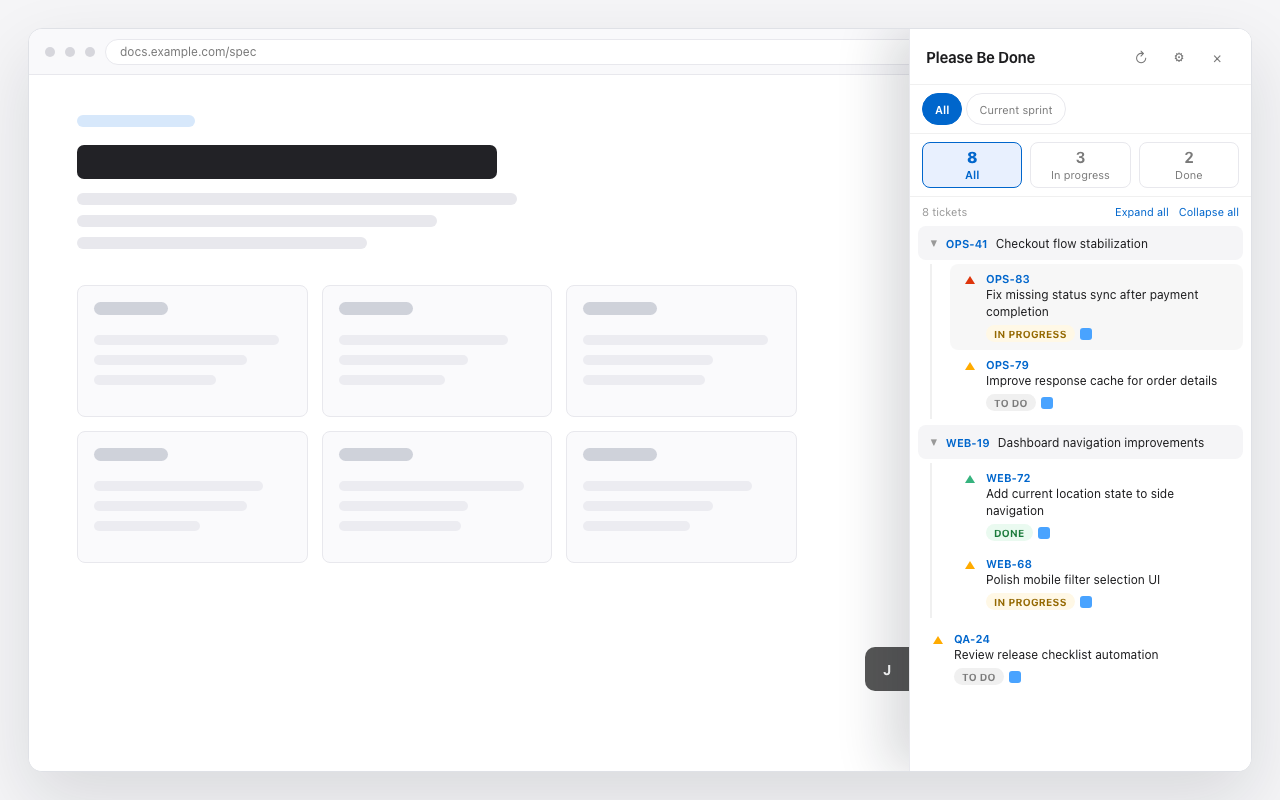
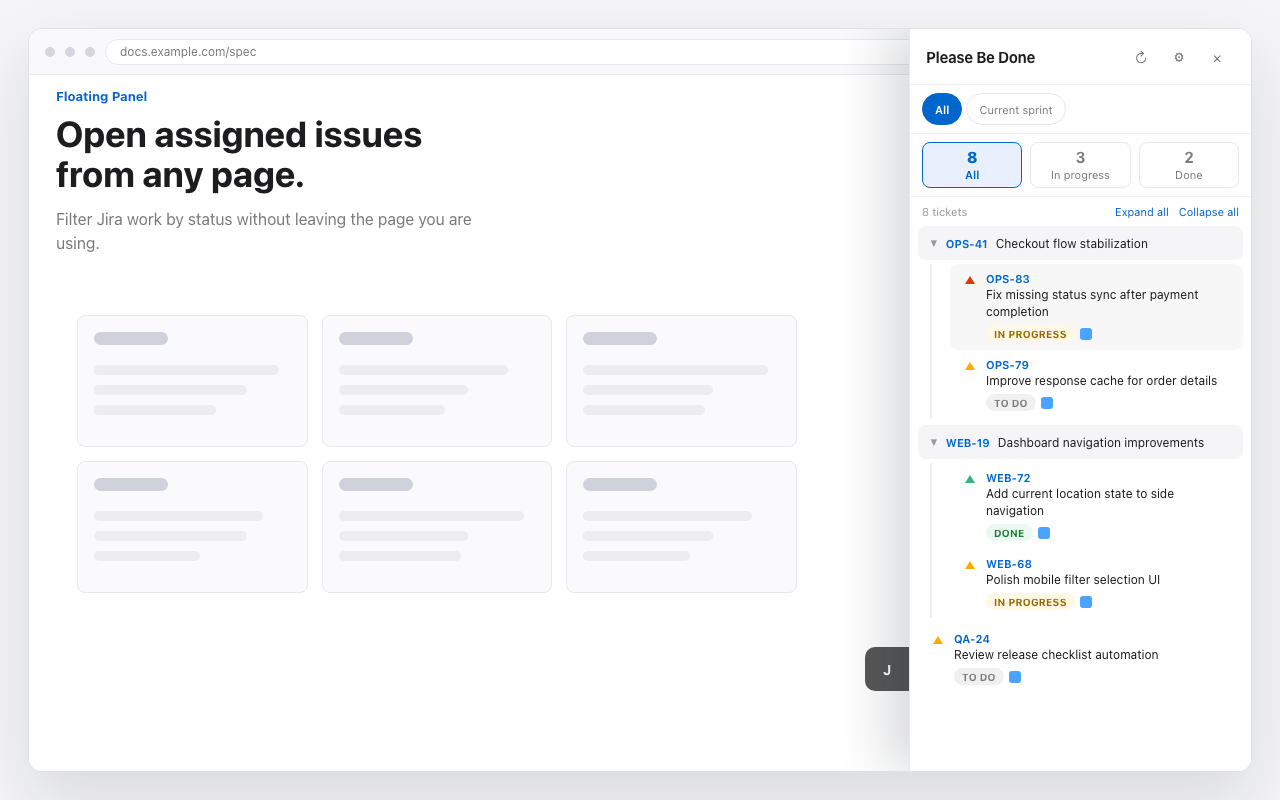
Improve Chrome Web Store discovery assets

diff --git a/store-assets/source.html b/store-assets/source.html
@@ -140,6 +140,20 @@
       padding-right: 390px;
     }
 
+    .webpage--store-copy {
+      padding-top: 240px;
+    }
+
+    .webpage--store-copy > .kicker,
+    .webpage--store-copy > .headline,
+    .webpage--store-copy > .copy-line {
+      display: none;
+    }
+
+    .webpage--store-copy .board {
+      margin-top: 0;
+    }
+
     .kicker {
       width: 118px;
       height: 12px;
@@ -744,6 +758,7 @@
       font-size: 13px;
       font-weight: 700;
       letter-spacing: 0;
+      z-index: 2;
     }
 
     .screen-title {
@@ -756,6 +771,11 @@
       font-weight: 720;
       letter-spacing: 0;
       color: var(--ink);
+      z-index: 2;
+    }
+
+    .screen-title--settings {
+      width: 660px;
     }
 
     .screen-note {
@@ -766,6 +786,7 @@
       color: var(--muted);
       font-size: 16px;
       line-height: 1.48;
+      z-index: 2;
     }
 
     .priority-high path { fill: #de350b; }
@@ -963,7 +984,7 @@
         <div class="brand">P</div>
         <div class="promo-copy">
           <div class="promo-title">Please<br />Be Done</div>
-          <div class="promo-subtitle">Jira tickets<br />at a glance</div>
+          <div class="promo-subtitle">Assigned Jira issues at a glance</div>
         </div>
         <div class="browser browser--promo">
           ${topbar('anywhere')}
@@ -991,8 +1012,8 @@
             <div class="marquee-logo">P</div>
             <div class="marquee-name">Please Be Done</div>
           </div>
-          <h1 class="marquee-title">See your work<br />before opening Jira.</h1>
-          <div class="marquee-subtitle">Track assigned issues, current sprint work, and status progress from the side panel or floating panel.</div>
+          <h1 class="marquee-title">Your assigned Jira issues, ready when you need them.</h1>
+          <div class="marquee-subtitle">Track current sprint work and status progress from the side panel or floating panel.</div>
         </div>
         <div class="browser browser--marquee">
           ${topbar('project.example.com')}
@@ -1006,11 +1027,11 @@
       root.className = 'asset asset--screenshot';
       root.innerHTML = `
         <div class="screen-label">Chrome Side Panel</div>
-        <div class="screen-title">Keep current work visible beside the browser</div>
+        <div class="screen-title">Current sprint or every assigned issue.</div>
         <div class="screen-note">Group assigned Jira issues by parent ticket and switch quickly between current sprint and all assigned work.</div>
         <div class="browser">
           ${topbar('project.example.com/roadmap')}
-          ${webPage()}
+          ${webPage('webpage--store-copy')}
           ${panel()}
         </div>
       `;
@@ -1019,9 +1040,12 @@
     function screenshotFloating() {
       root.className = 'asset asset--screenshot';
       root.innerHTML = `
+        <div class="screen-label">Floating Panel</div>
+        <div class="screen-title">Open assigned issues from any page.</div>
+        <div class="screen-note">Filter Jira work by status without leaving the page you are using.</div>
         <div class="browser">
           ${topbar('docs.example.com/spec')}
-          ${webPage('webpage--wide')}
+          ${webPage('webpage--wide webpage--store-copy')}
           <div class="toggle-tab">J</div>
           ${panel({ floating: true })}
         </div>
@@ -1032,11 +1056,11 @@
       root.className = 'asset asset--screenshot';
       root.innerHTML = `
         <div class="screen-label">Secure Setup</div>
-        <div class="screen-title">Connect directly with an Atlassian API token</div>
+        <div class="screen-title screen-title--settings">Connect directly to Jira Cloud with your API token.</div>
         <div class="screen-note">Domain, email, and API token are stored in Chrome storage, while Jira Cloud API requests are handled in the browser.</div>
         <div class="browser">
           ${topbar('chrome-extension://please-be-done/options.html')}
-          ${webPage('webpage--wide')}
+          ${webPage('webpage--wide webpage--store-copy')}
           ${panel({ floating: true, settings: true })}
         </div>
       `;

diff --git a/test/webstore-assets.test.js b/test/webstore-assets.test.js
@@ -1,0 +1,53 @@
+import assert from 'node:assert/strict';
+import { readFile } from 'node:fs/promises';
+import test from 'node:test';
+
+const generatorUrl = new URL('../scripts/generate-webstore-assets.mjs', import.meta.url);
+const sourceUrl = new URL('../store-assets/source.html', import.meta.url);
+
+const assets = [
+  ['promo', 'promo-small-440x280.png', 'Assigned Jira issues at a glance'],
+  ['marquee', 'promo-marquee-1400x560.png', 'Your assigned Jira issues, ready when you need them.'],
+  ['sidepanel', 'screenshot-sidepanel-1280x800.png', 'Current sprint or every assigned issue.'],
+  ['floating', 'screenshot-floating-panel-1280x800.png', 'Open assigned issues from any page.'],
+  ['settings', 'screenshot-settings-1280x800.png', 'Connect directly to Jira Cloud with your API token.'],
+];
+
+test('web store asset generator renders the canonical source into five release assets', async () => {
+  const [generator, source] = await Promise.all([
+    readFile(generatorUrl, 'utf8'),
+    readFile(sourceUrl, 'utf8'),
+  ]);
+
+  assert.match(generator, /store-assets[^\n]+source\.html/);
+
+  for (const [renderer, output, message] of assets) {
+    assert.match(generator, new RegExp(`asset=${renderer}`));
+    assert.match(generator, new RegExp(output.replaceAll('.', '\\.')));
+    assert.ok(source.includes(message), `missing ${renderer} message: ${message}`);
+  }
+});
+
+test('web store asset generator stops Chrome after each screenshot is written', async () => {
+  const generator = await readFile(generatorUrl, 'utf8');
+
+  assert.match(generator, /spawn\(/);
+  assert.match(generator, /await waitForOutput\(/);
+  assert.match(generator, /if \(!child\.pid/);
+  assert.match(generator, /child\.kill\('SIGTERM'\)/);
+});
+
+test('store screenshots reserve a clear copy area above the placeholder board', async () => {
+  const source = await readFile(sourceUrl, 'utf8');
+
+  assert.match(source, /\.webpage--store-copy/);
+  assert.match(source, /webPage\('webpage--store-copy'\)/);
+  assert.match(source, /webPage\('webpage--wide webpage--store-copy'\)/);
+});
+
+test('settings screenshot gives its longer title enough horizontal space', async () => {
+  const source = await readFile(sourceUrl, 'utf8');
+
+  assert.match(source, /\.screen-title--settings\s*{[^}]*width:\s*660px/s);
+  assert.match(source, /class="screen-title screen-title--settings"/);
+});

diff --git a/DEPLOY.md b/DEPLOY.md
@@ -59,13 +59,17 @@ Recommended assets:
 Short description:
 
 ```text
-Quickly check your assigned Jira issues from the Chrome Side Panel.
+See assigned Jira Cloud issues and current sprint work in Chrome's side panel without switching tabs.
 ```
 
 Detailed description:
 
 ```text
-Please Be Done helps you keep track of Jira issues assigned to you without keeping a separate Jira tab open.
+Keep your assigned Jira Cloud issues visible while you work. Please Be Done shows current sprint and all assigned issues in Chrome's side panel or an optional floating panel, so you can check priorities and open tickets without returning to Jira.
+
+Requirements:
+- Jira Cloud workspace under *.atlassian.net
+- Atlassian account email and API token
 
 Key features:
 - View assigned issues in the Chrome Side Panel
@@ -76,10 +80,21 @@ Key features:
 - Open Jira issues with one click
 
 Privacy:
-- Jira credentials are stored in Chrome storage
-- Jira issue data is requested directly from your Jira Cloud workspace
+- Jira credentials are stored in Chrome storage and may sync through your Chrome account
+- Credentials are not sent to or accessible by the developer
+- Jira issue data is requested directly from your configured Jira Cloud workspace
 - No external analytics, tracking, or project-owned server is used
+
+Please Be Done is an independent extension and is not affiliated with, endorsed by, or sponsored by Atlassian.
 ```
+
+The extension name shown in the listing must match `manifest.json`:
+
+```text
+Please Be Done for Jira: My Issues
+```
+
+Before publishing, confirm that the listing uses the independent Please Be Done icon and does not use Jira or Atlassian logos or visual identity.
 
 ## 6. Privacy Policy
 
